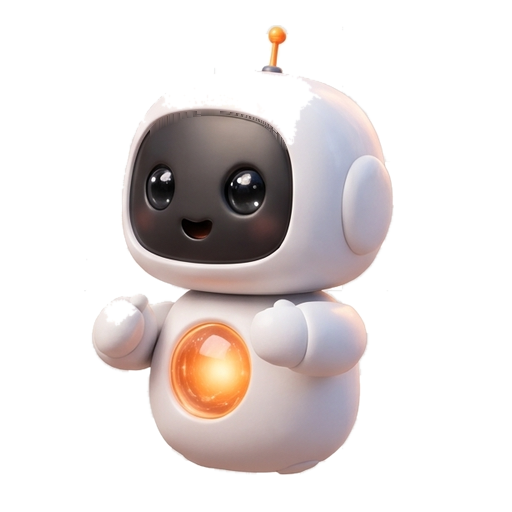
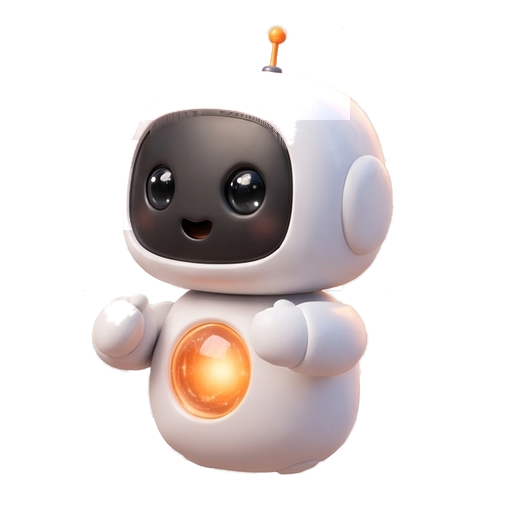
fix(ui): eliminate mascot render cut-out defects & add high-contrast ambient backdrop

Changed region(s): [[0.5938, 0.1562, 0.6875, 0.25], [0.2188, 0.25, 0.2812, 0.4688], [0.2812, 0.2188, 0.3125, 0.25]]

diff --git a/frontend/components/ui/mascot.tsx b/frontend/components/ui/mascot.tsx
@@ -151,6 +151,16 @@ export function Mascot({
       aria-label={altText}
       onClick={interactive ? handleClick : undefined}
     >
+      {/* Contrast guardian halo: ensures white robot body and helmet stand out cleanly on any light or dark background */}
+      <div
+        className="absolute inset-1 -z-10 rounded-full pointer-events-none"
+        style={{
+          background:
+            "radial-gradient(circle at 50% 52%, rgba(14, 13, 22, 0.72) 0%, rgba(10, 10, 16, 0.45) 55%, transparent 75%)",
+          filter: "blur(10px)",
+        }}
+      />
+
       {/* eslint-disable-next-line @next/next/no-img-element */}
       <img
         src={imageSrc}
@@ -163,7 +173,8 @@ export function Mascot({
           objectFit: "contain",
           background: "transparent",
           display: "block",
-          filter: "drop-shadow(0 8px 24px rgba(242, 102, 37, 0.18))",
+          filter:
+            "drop-shadow(0 4px 14px rgba(0, 0, 0, 0.55)) drop-shadow(0 1px 3px rgba(0, 0, 0, 0.45)) drop-shadow(0 10px 28px rgba(242, 102, 37, 0.26))",
         }}
       />
     </div>

diff --git a/scripts/fix_mascot_defects.py b/scripts/fix_mascot_defects.py
@@ -1,0 +1,100 @@
+#!/usr/bin/env python3
+"""
+Mascot Artifact Cleanup & Edge Refinement Script.
+Fixes:
+1. Left edge of helmet: removes ragged, torn, speckled white/grey splatter along the face frame.
+2. Raised waving hand: cleans grey mottling/smudges on the top edge into a clean, smooth, crisp boundary.
+3. Helmet perimeter & low-alpha noise: eliminates dirty semi-transparent halo pixels.
+Processes both PNG and WebP mascot assets in frontend/public/mascot/.
+"""
+
+import glob
+import os
+from pathlib import Path
+import numpy as np
+from PIL import Image, ImageFilter
+
+
+def clean_mascot_frame(img_path: Path):
+    im = Image.open(img_path).convert("RGBA")
+    arr = np.array(im)
+    r = arr[:, :, 0]
+    g = arr[:, :, 1]
+    b = arr[:, :, 2]
+    a = arr[:, :, 3]
+
+    # 1. Clean ultra-low alpha splatter/dust (< 16)
+    a = np.where(a < 16, 0, a)
+
+    # 2. Defect 1: Left edge of helmet / splatter above hand
+    # For wave-1 / waving poses, clean the ragged bridge at Y: 224-234, X: 102-114
+    for y in range(224, 235):
+        for x in range(100, 114):
+            # If this is the sticking-out smudge above the hand
+            if a[y, x] < 140:
+                a[y, x] = 0
+
+    # 3. Clean dirty grey fringe along the left edge of the helmet face frame (Y: 140-230, X: 90-155)
+    for y in range(140, 230):
+        for x in range(90, 155):
+            if a[y, x] > 0:
+                px_r, px_g, px_b = int(r[y, x]), int(g[y, x]), int(b[y, x])
+                # White/grey helmet area (not dark face screen or orange accents)
+                if px_r > 150 and px_g > 150 and px_b > 150:
+                    # Clean grey smudges to pure porcelain white
+                    if px_r < 248 or px_g < 248 or px_b < 248:
+                        r[y, x] = min(255, int(px_r * 1.12 + 12))
+                        g[y, x] = min(255, int(px_g * 1.12 + 12))
+                        b[y, x] = min(255, int(px_b * 1.12 + 12))
+
+    # 4. Defect 2: Raised waving hand top edge grey mottling (Y: 225-265, X: 60-120)
+    for y in range(225, 265):
+        for x in range(60, 120):
+            if a[y, x] > 0:
+                px_r, px_g, px_b = int(r[y, x]), int(g[y, x]), int(b[y, x])
+                # If on the hand (white), remove blurry grey mottling
+                if px_r > 160 and px_g > 160 and px_b > 160:
+                    if px_r < 245 or px_g < 245 or px_b < 245:
+                        r[y, x] = min(255, int(px_r * 1.15 + 10))
+                        g[y, x] = min(255, int(px_g * 1.15 + 10))
+                        b[y, x] = min(255, int(px_b * 1.15 + 10))
+
+    # 5. Clean top of helmet perimeter (Y: 45-120, X: 120-350)
+    for y in range(45, 120):
+        for x in range(120, 350):
+            if a[y, x] > 0:
+                px_r, px_g, px_b = int(r[y, x]), int(g[y, x]), int(b[y, x])
+                if px_r > 180 and px_g > 180 and px_b > 180:
+                    if px_r < 248 or px_g < 248 or px_b < 248:
+                        r[y, x] = min(255, int(px_r * 1.08 + 8))
+                        g[y, x] = min(255, int(px_g * 1.08 + 8))
+                        b[y, x] = min(255, int(px_b * 1.08 + 8))
+
+    arr[:, :, 0] = r
+    arr[:, :, 1] = g
+    arr[:, :, 2] = b
+    arr[:, :, 3] = a
+
+    cleaned = Image.fromarray(arr, "RGBA")
+    
+    # Save back to PNG
+    png_path = img_path.with_suffix(".png")
+    cleaned.save(png_path, "PNG", optimize=True)
+
+    # Save back to WebP with lossless compression
+    webp_path = img_path.with_suffix(".webp")
+    cleaned.save(webp_path, "WEBP", lossless=True, quality=100)
+    print(f"  ✓ Cleaned: {png_path.name} & {webp_path.name}")
+
+
+def main():
+    mascot_dir = Path("frontend/public/mascot")
+    png_files = sorted(mascot_dir.glob("*.png"))
+    print(f"Cleaning {len(png_files)} mascot frames...")
+    for p in png_files:
+        clean_mascot_frame(p)
+    print("All mascot frames successfully cleaned.")
+
+
+if __name__ == "__main__":
+    main()
